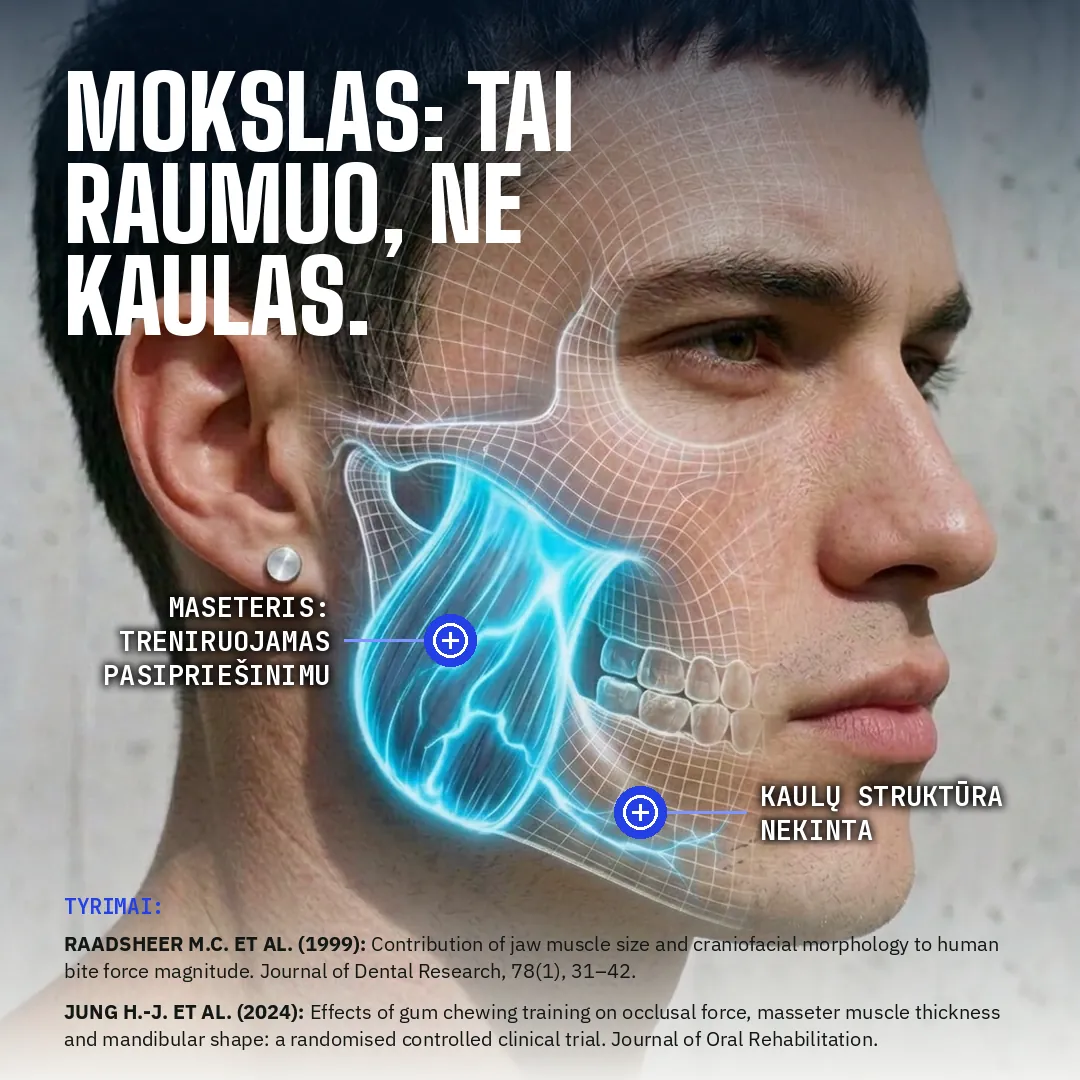
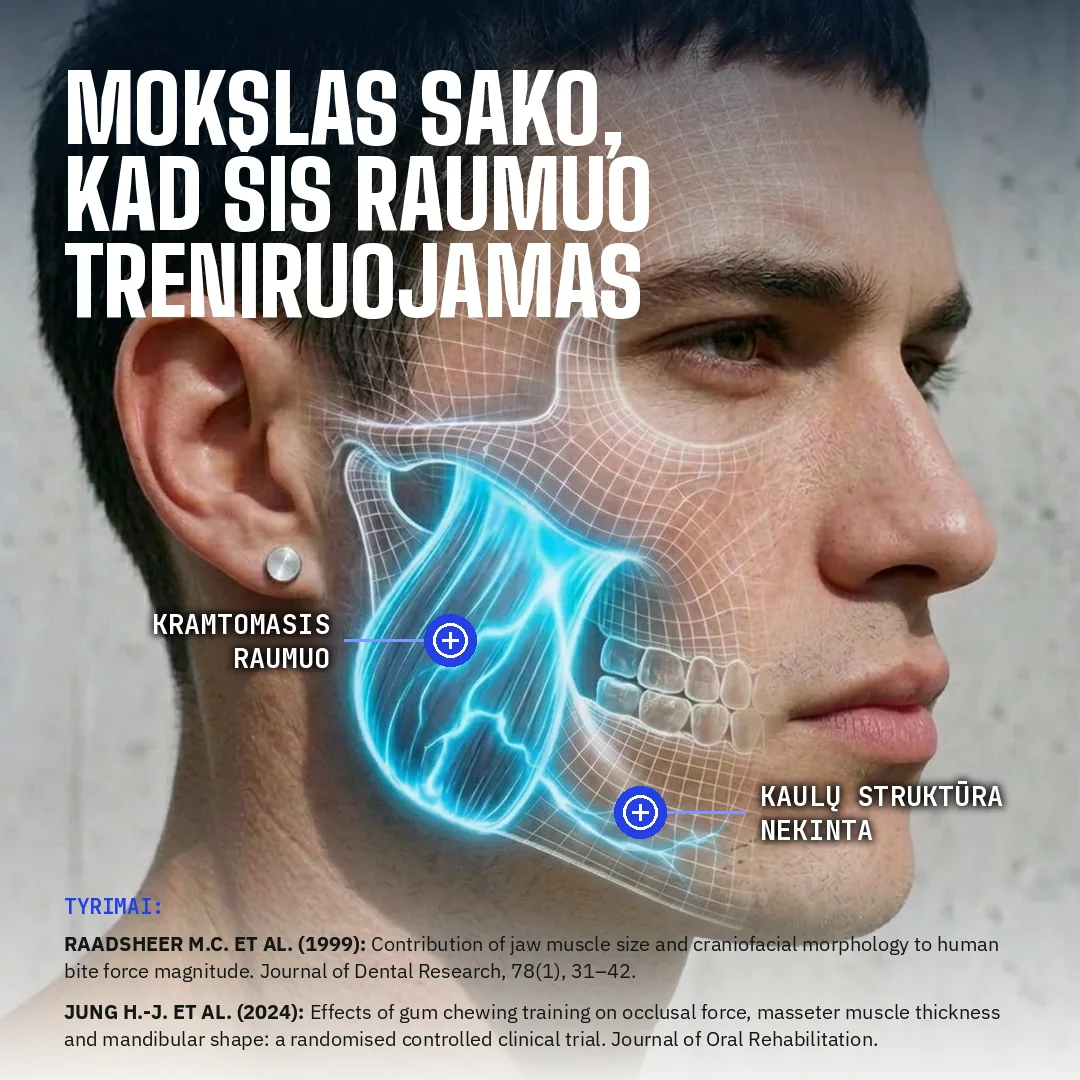
LT gallery: new translated images; remove article Sources blocks
- Replace all 13 LT product-gallery images (2,2-ultra,3,3-ultra,4-12)
  with CMO's updated-translation versions (keep caffeine-1).
- Remove the <div class="src"> Sources citation block from all 6
  article pages (also clears the English citation strings from i18n).

Claude-Session: https://claude.ai/code/session_01JhNFK6W3iYKErWo2corx9U

Changed region(s): [[0.0611, 0.0611, 0.6111, 0.3361], [0.0917, 0.55, 0.3056, 0.6417]]

diff --git a/website/article-what-makes-a-jawline-attractive.html b/website/article-what-makes-a-jawline-attractive.html
@@ -93,7 +93,6 @@
 <p>Train your jaw because it's a simple habit that makes the muscle stronger and makes you feel good about putting the work in, not to fit a single ideal. Combine it with what moves the needle most: a healthy body-fat level, sleep, posture and looking after your skin.</p>
 </div>
   <div class="cta"><p><b>Want to train your jaw?</b> JAWZR hard gum comes with a 30-day plan: 8–15 minutes a day, alternating full and light days.</p><a class="btn" href="gums">Shop hard gum</a></div>
-  <div class="src"><h3>Sources</h3><ol><li>Rhodes G. The evolutionary psychology of facial beauty. <i>Annual Review of Psychology</i> 2006;57:199–226.</li><li>Perrett DI, Lee KJ, Penton-Voak I, et al. Effects of sexual dimorphism on facial attractiveness. <i>Nature</i> 1998;394:884–887.</li><li>Penton-Voak IS, Perrett DI, Castles DL, et al. Menstrual cycle alters face preference. <i>Nature</i> 1999;399:741–742.</li><li>Jones BC, Hahn AC, Fisher CI, et al. No compelling evidence that preferences for facial masculinity track changes in women's hormonal status. <i>Psychological Science</i> 2018;29(6):996–1005.</li></ol></div>
   <p class="note">This article is general information, not medical or dental advice. If you have jaw, joint or dental problems, ask a dentist before training your jaw.</p>
 </main>
 <section style="padding-top:0"><div class="wrap jlist" style="padding-top:0"><div class="sec-head"><p class="eyebrow">Keep reading</p><h2>More articles</h2></div><div class="jgrid"><a class="jcard" href="article-does-hard-gum-build-jaw-muscle.html"><div class="im"><img src="images/articles/1.jpg" alt="" loading="lazy"></div><div class="tx"><span class="t">Research · 5 min read</span><h3>Does hard gum build jaw muscle? What the research says</h3><p>Jaw muscles adapt to load like any other muscle. Here is what training studies found, and what they didn&#x27;t.</p></div></a><a class="jcard" href="article-muscles-of-chewing.html"><div class="im"><img src="images/articles/2.jpg" style="object-fit:contain;background:#fff" alt="" loading="lazy"></div><div class="tx"><span class="t">Anatomy · 4 min read</span><h3>The muscles you chew with: a simple guide</h3><p>Masseter, temporalis and the two pterygoids: what each one does, and which ones hard gum trains.</p></div></a><a class="jcard" href="article-chewing-gum-and-focus.html"><div class="im"><img src="images/articles/3.jpg" alt="" loading="lazy"></div><div class="tx"><span class="t">Research · 4 min read</span><h3>Can chewing gum sharpen your focus?</h3><p>A short burst of chewing before a task seems to help, at least for a while. Here is what one well-known study found.</p></div></a></div></div></section>

diff --git a/website/article-benefits-of-sugar-free-gum.html b/website/article-benefits-of-sugar-free-gum.html
@@ -93,7 +93,6 @@
 </ul>
 </div>
   <div class="cta"><p><b>Want to train your jaw?</b> JAWZR hard gum comes with a 30-day plan: 8–15 minutes a day, alternating full and light days.</p><a class="btn" href="gums">Shop hard gum</a></div>
-  <div class="src"><h3>Sources</h3><ol><li>Commission Regulation (EU) No 432/2012 establishing a list of permitted health claims made on foods (sugar-free chewing gum entries). <a href="https://eur-lex.europa.eu/eli/reg/2012/432/oj">EUR-Lex</a></li><li>Short V, Herbert G, Perry R, et al. Chewing gum for postoperative recovery of gastrointestinal function. <i>Cochrane Database of Systematic Reviews</i> 2015;(2):CD006506. <a href="https://pubmed.ncbi.nlm.nih.gov/25914904/">PubMed</a></li></ol></div>
   <p class="note">This article is general information, not medical or dental advice. If you have jaw, joint or dental problems, ask a dentist before training your jaw.</p>
 </main>
 <section style="padding-top:0"><div class="wrap jlist" style="padding-top:0"><div class="sec-head"><p class="eyebrow">Keep reading</p><h2>More articles</h2></div><div class="jgrid"><a class="jcard" href="article-does-hard-gum-build-jaw-muscle.html"><div class="im"><img src="images/articles/1.jpg" alt="" loading="lazy"></div><div class="tx"><span class="t">Research · 5 min read</span><h3>Does hard gum build jaw muscle? What the research says</h3><p>Jaw muscles adapt to load like any other muscle. Here is what training studies found, and what they didn&#x27;t.</p></div></a><a class="jcard" href="article-muscles-of-chewing.html"><div class="im"><img src="images/articles/2.jpg" style="object-fit:contain;background:#fff" alt="" loading="lazy"></div><div class="tx"><span class="t">Anatomy · 4 min read</span><h3>The muscles you chew with: a simple guide</h3><p>Masseter, temporalis and the two pterygoids: what each one does, and which ones hard gum trains.</p></div></a><a class="jcard" href="article-chewing-gum-and-focus.html"><div class="im"><img src="images/articles/3.jpg" alt="" loading="lazy"></div><div class="tx"><span class="t">Research · 4 min read</span><h3>Can chewing gum sharpen your focus?</h3><p>A short burst of chewing before a task seems to help, at least for a while. Here is what one well-known study found.</p></div></a></div></div></section>

diff --git a/website/article-does-chewing-gum-burn-calories.html b/website/article-does-chewing-gum-burn-calories.html
@@ -89,7 +89,6 @@
 <p>For the muscles, not for the calories. Hard gum is resistance training for your masseter: stronger bite, better endurance and a habit that takes 15 minutes. If your goal is a sharper jawline, losing body fat matters as much as the muscle. That comes from diet and overall activity, not from gum.</p>
 </div>
   <div class="cta"><p><b>Want to train your jaw?</b> JAWZR hard gum comes with a 30-day plan: 8–15 minutes a day, alternating full and light days.</p><a class="btn" href="gums">Shop hard gum</a></div>
-  <div class="src"><h3>Sources</h3><ol><li>Levine J, Baukol P, Pavlidis I. The energy expended in chewing gum. <i>New England Journal of Medicine</i> 1999;341:2100.</li></ol></div>
   <p class="note">This article is general information, not medical or dental advice. If you have jaw, joint or dental problems, ask a dentist before training your jaw.</p>
 </main>
 <section style="padding-top:0"><div class="wrap jlist" style="padding-top:0"><div class="sec-head"><p class="eyebrow">Keep reading</p><h2>More articles</h2></div><div class="jgrid"><a class="jcard" href="article-does-hard-gum-build-jaw-muscle.html"><div class="im"><img src="images/articles/1.jpg" alt="" loading="lazy"></div><div class="tx"><span class="t">Research · 5 min read</span><h3>Does hard gum build jaw muscle? What the research says</h3><p>Jaw muscles adapt to load like any other muscle. Here is what training studies found, and what they didn&#x27;t.</p></div></a><a class="jcard" href="article-muscles-of-chewing.html"><div class="im"><img src="images/articles/2.jpg" style="object-fit:contain;background:#fff" alt="" loading="lazy"></div><div class="tx"><span class="t">Anatomy · 4 min read</span><h3>The muscles you chew with: a simple guide</h3><p>Masseter, temporalis and the two pterygoids: what each one does, and which ones hard gum trains.</p></div></a><a class="jcard" href="article-chewing-gum-and-focus.html"><div class="im"><img src="images/articles/3.jpg" alt="" loading="lazy"></div><div class="tx"><span class="t">Research · 4 min read</span><h3>Can chewing gum sharpen your focus?</h3><p>A short burst of chewing before a task seems to help, at least for a while. Here is what one well-known study found.</p></div></a></div></div></section>

diff --git a/website/article-does-hard-gum-build-jaw-muscle.html b/website/article-does-hard-gum-build-jaw-muscle.html
@@ -100,7 +100,6 @@
 </ol>
 </div>
   <div class="cta"><p><b>Want to train your jaw?</b> JAWZR hard gum comes with a 30-day plan: 8–15 minutes a day, alternating full and light days.</p><a class="btn" href="gums">Shop hard gum</a></div>
-  <div class="src"><h3>Sources</h3><ol><li>He T, Stavropoulos D, Hagberg C, Hakeberg M, Mohlin B. Effects of masticatory muscle training on maximum bite force and muscular endurance. <i>Acta Odontologica Scandinavica</i> 2013;71(3–4):863–869. <a href="https://medicaljournalssweden.se/actaodontologica/article/view/37666">Link</a></li><li>Tzakis MG, Kiliaridis S, Carlsson GE. Effect of chewing training on masticatory efficiency. <i>Acta Odontologica Scandinavica</i> 1989;47:355–360.</li></ol></div>
   <p class="note">This article is general information, not medical or dental advice. If you have jaw, joint or dental problems, ask a dentist before training your jaw.</p>
 </main>
 <section style="padding-top:0"><div class="wrap jlist" style="padding-top:0"><div class="sec-head"><p class="eyebrow">Keep reading</p><h2>More articles</h2></div><div class="jgrid"><a class="jcard" href="article-muscles-of-chewing.html"><div class="im"><img src="images/articles/2.jpg" style="object-fit:contain;background:#fff" alt="" loading="lazy"></div><div class="tx"><span class="t">Anatomy · 4 min read</span><h3>The muscles you chew with: a simple guide</h3><p>Masseter, temporalis and the two pterygoids: what each one does, and which ones hard gum trains.</p></div></a><a class="jcard" href="article-chewing-gum-and-focus.html"><div class="im"><img src="images/articles/3.jpg" alt="" loading="lazy"></div><div class="tx"><span class="t">Research · 4 min read</span><h3>Can chewing gum sharpen your focus?</h3><p>A short burst of chewing before a task seems to help, at least for a while. Here is what one well-known study found.</p></div></a><a class="jcard" href="article-does-chewing-gum-burn-calories.html"><div class="im"><img src="images/articles/4.jpg" alt="" loading="lazy"></div><div class="tx"><span class="t">Myths · 3 min read</span><h3>Does chewing gum burn calories?</h3><p>Yes, a little: about 11 kcal an hour in one well-known study. Here is the honest maths.</p></div></a></div></div></section>

diff --git a/website/article-chewing-gum-and-focus.html b/website/article-chewing-gum-and-focus.html
@@ -92,7 +92,6 @@
 <p>If you want to try it, time your session: a JAWZR round before deep work or a workout, then put the gum away while you focus. It's a handy way to fit your daily training into the day, with a possible small bonus.</p>
 </div>
   <div class="cta"><p><b>Want to train your jaw?</b> JAWZR hard gum comes with a 30-day plan: 8–15 minutes a day, alternating full and light days.</p><a class="btn" href="gums">Shop hard gum</a></div>
-  <div class="src"><h3>Sources</h3><ol><li>Onyper SV, Carr TL, Farrar JS, Floyd BR. Cognitive advantages of chewing gum. Now you see them, now you don't. <i>Appetite</i> 2011;57(2):321–328.</li></ol></div>
   <p class="note">This article is general information, not medical or dental advice. If you have jaw, joint or dental problems, ask a dentist before training your jaw.</p>
 </main>
 <section style="padding-top:0"><div class="wrap jlist" style="padding-top:0"><div class="sec-head"><p class="eyebrow">Keep reading</p><h2>More articles</h2></div><div class="jgrid"><a class="jcard" href="article-does-hard-gum-build-jaw-muscle.html"><div class="im"><img src="images/articles/1.jpg" alt="" loading="lazy"></div><div class="tx"><span class="t">Research · 5 min read</span><h3>Does hard gum build jaw muscle? What the research says</h3><p>Jaw muscles adapt to load like any other muscle. Here is what training studies found, and what they didn&#x27;t.</p></div></a><a class="jcard" href="article-muscles-of-chewing.html"><div class="im"><img src="images/articles/2.jpg" style="object-fit:contain;background:#fff" alt="" loading="lazy"></div><div class="tx"><span class="t">Anatomy · 4 min read</span><h3>The muscles you chew with: a simple guide</h3><p>Masseter, temporalis and the two pterygoids: what each one does, and which ones hard gum trains.</p></div></a><a class="jcard" href="article-does-chewing-gum-burn-calories.html"><div class="im"><img src="images/articles/4.jpg" alt="" loading="lazy"></div><div class="tx"><span class="t">Myths · 3 min read</span><h3>Does chewing gum burn calories?</h3><p>Yes, a little: about 11 kcal an hour in one well-known study. Here is the honest maths.</p></div></a></div></div></section>

diff --git a/website/article-muscles-of-chewing.html b/website/article-muscles-of-chewing.html
@@ -97,7 +97,6 @@
 <p>All four muscles are controlled by the same nerve, the mandibular branch of the trigeminal nerve. That is one reason they work so closely together.</p>
 </div>
   <div class="cta"><p><b>Want to train your jaw?</b> JAWZR hard gum comes with a 30-day plan: 8–15 minutes a day, alternating full and light days.</p><a class="btn" href="gums">Shop hard gum</a></div>
-  <div class="src"><h3>Sources</h3><ol><li>Standard anatomy references on the muscles of mastication, e.g. <i>Gray's Anatomy</i>, head and neck section.</li></ol></div>
   <p class="note">This article is general information, not medical or dental advice. If you have jaw, joint or dental problems, ask a dentist before training your jaw.</p>
 </main>
 <section style="padding-top:0"><div class="wrap jlist" style="padding-top:0"><div class="sec-head"><p class="eyebrow">Keep reading</p><h2>More articles</h2></div><div class="jgrid"><a class="jcard" href="article-does-hard-gum-build-jaw-muscle.html"><div class="im"><img src="images/articles/1.jpg" alt="" loading="lazy"></div><div class="tx"><span class="t">Research · 5 min read</span><h3>Does hard gum build jaw muscle? What the research says</h3><p>Jaw muscles adapt to load like any other muscle. Here is what training studies found, and what they didn&#x27;t.</p></div></a><a class="jcard" href="article-chewing-gum-and-focus.html"><div class="im"><img src="images/articles/3.jpg" alt="" loading="lazy"></div><div class="tx"><span class="t">Research · 4 min read</span><h3>Can chewing gum sharpen your focus?</h3><p>A short burst of chewing before a task seems to help, at least for a while. Here is what one well-known study found.</p></div></a><a class="jcard" href="article-does-chewing-gum-burn-calories.html"><div class="im"><img src="images/articles/4.jpg" alt="" loading="lazy"></div><div class="tx"><span class="t">Myths · 3 min read</span><h3>Does chewing gum burn calories?</h3><p>Yes, a little: about 11 kcal an hour in one well-known study. Here is the honest maths.</p></div></a></div></div></section>
